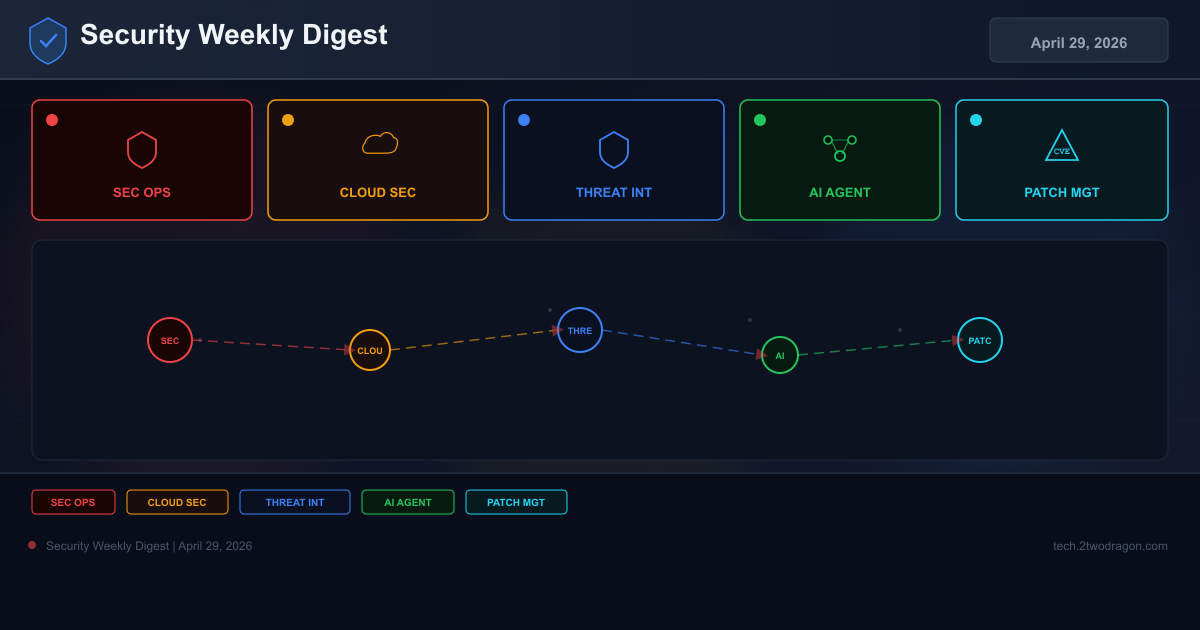
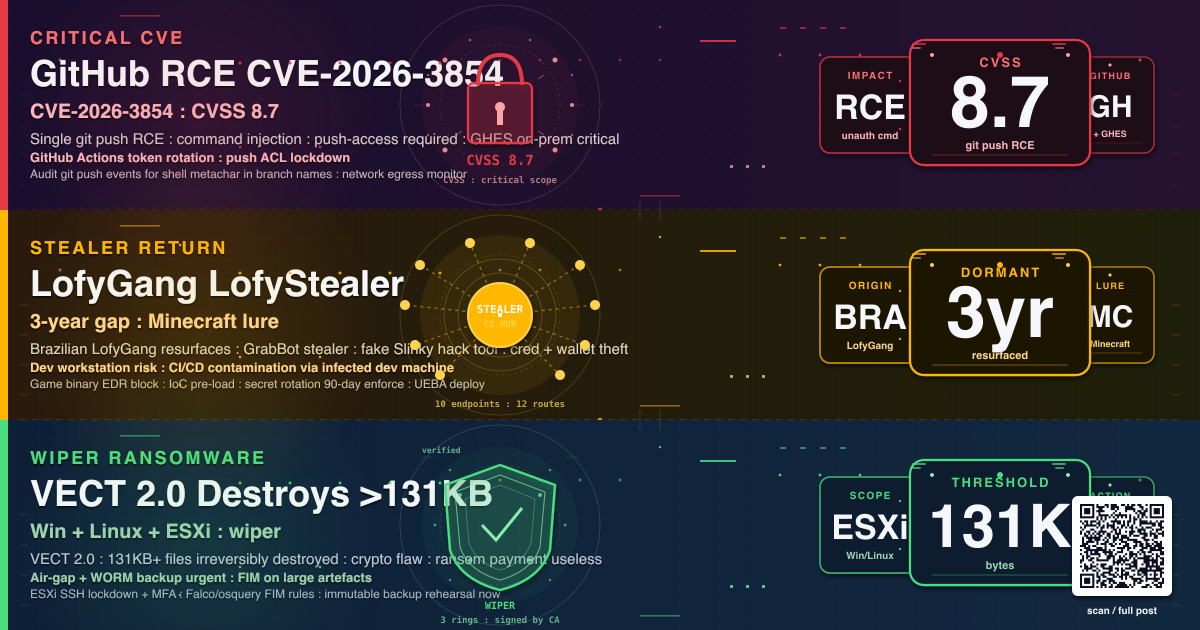
chore(images): apply ambient glow to L22 ultra-tier 04-26..29 covers (#317)
* feat(images): add per-band ambient glow to L22 ultra renderer

Add a 3-circle ambient-glow group to render_bands_svg when tier="ultra".
Each circle reuses the existing glowA/B/C{sfx} radialGradient defs and is
positioned in the upper-left quadrant of its band (cx=200, cy=120/330/540,
r=180, opacity=0.22). The group is inserted between bands_svg and deco_layer
so it sits behind band content. The standard tier path is unaffected.

* chore(images): regenerate 04-26..29 covers + OG PNGs with ambient glow

Re-render four L22 ultra-tier covers via their driver scripts now that
render_bands_svg emits per-band glow circles:

  04-26: 65.6 KB (was 67 KB)
  04-27: 67.5 KB (was 69 KB)
  04-28: 66.8 KB (was 68 KB)
  04-29: 67.1 KB (was 68 KB)

OG PNGs (1200x630) regenerated via _convert_svg_to_og_png.
All four SVGs parse clean with xml.etree.ElementTree.

diff --git a/scripts/lib/svg_l22_generator.py b/scripts/lib/svg_l22_generator.py
@@ -1061,11 +1061,24 @@ def render_bands_svg(
     bands_svg = "\n".join(body_parts)
     deco = deco_layer(t0, t1, t2, tier=tier)
 
+    # Per-band ambient-glow circles (ultra tier only) — reuse existing glowA/B/C{sfx} radialGradients.
+    # Positioned upper-left of each band (y centers: 120, 330, 540) so glow sits behind band content.
+    ambient_glow = ""
+    if tier == "ultra":
+        ambient_glow = (
+            f'<g opacity="1">\n'
+            f'  <circle cx="200" cy="120" r="180" fill="url(#glowA{sfx})" opacity="0.22"/>\n'
+            f'  <circle cx="200" cy="330" r="180" fill="url(#glowB{sfx})" opacity="0.22"/>\n'
+            f'  <circle cx="200" cy="540" r="180" fill="url(#glowC{sfx})" opacity="0.22"/>\n'
+            f'</g>'
+        )
+
     return f'''<svg xmlns="http://www.w3.org/2000/svg" viewBox="0 0 1200 630" width="1200" height="630" role="img" aria-label="{aria}">
 <title>{title}</title>
 {defs}
 <rect width="1200" height="630" fill="url(#bgSpread{sfx})"/>
 {bands_svg}
+{ambient_glow}
 {deco}
 {qr_block(url)}
 </svg>'''
